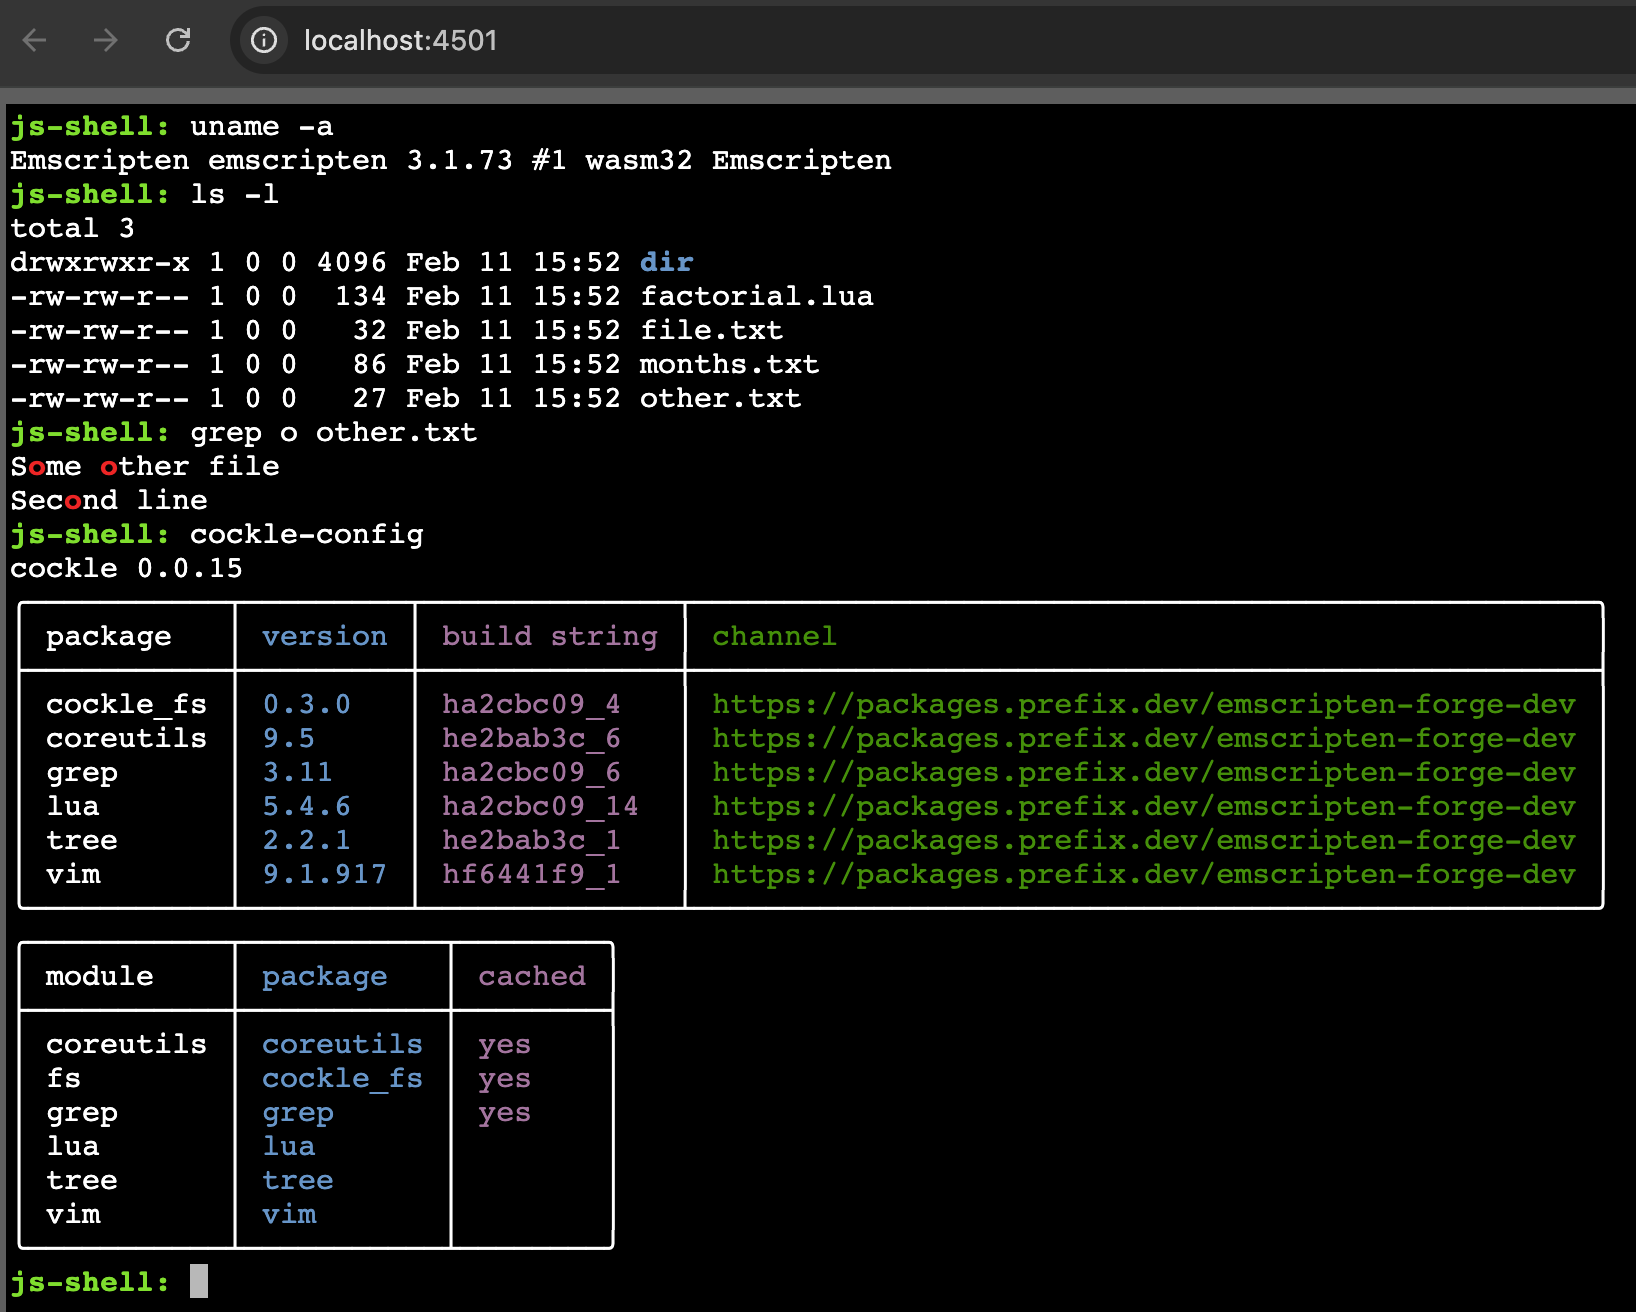
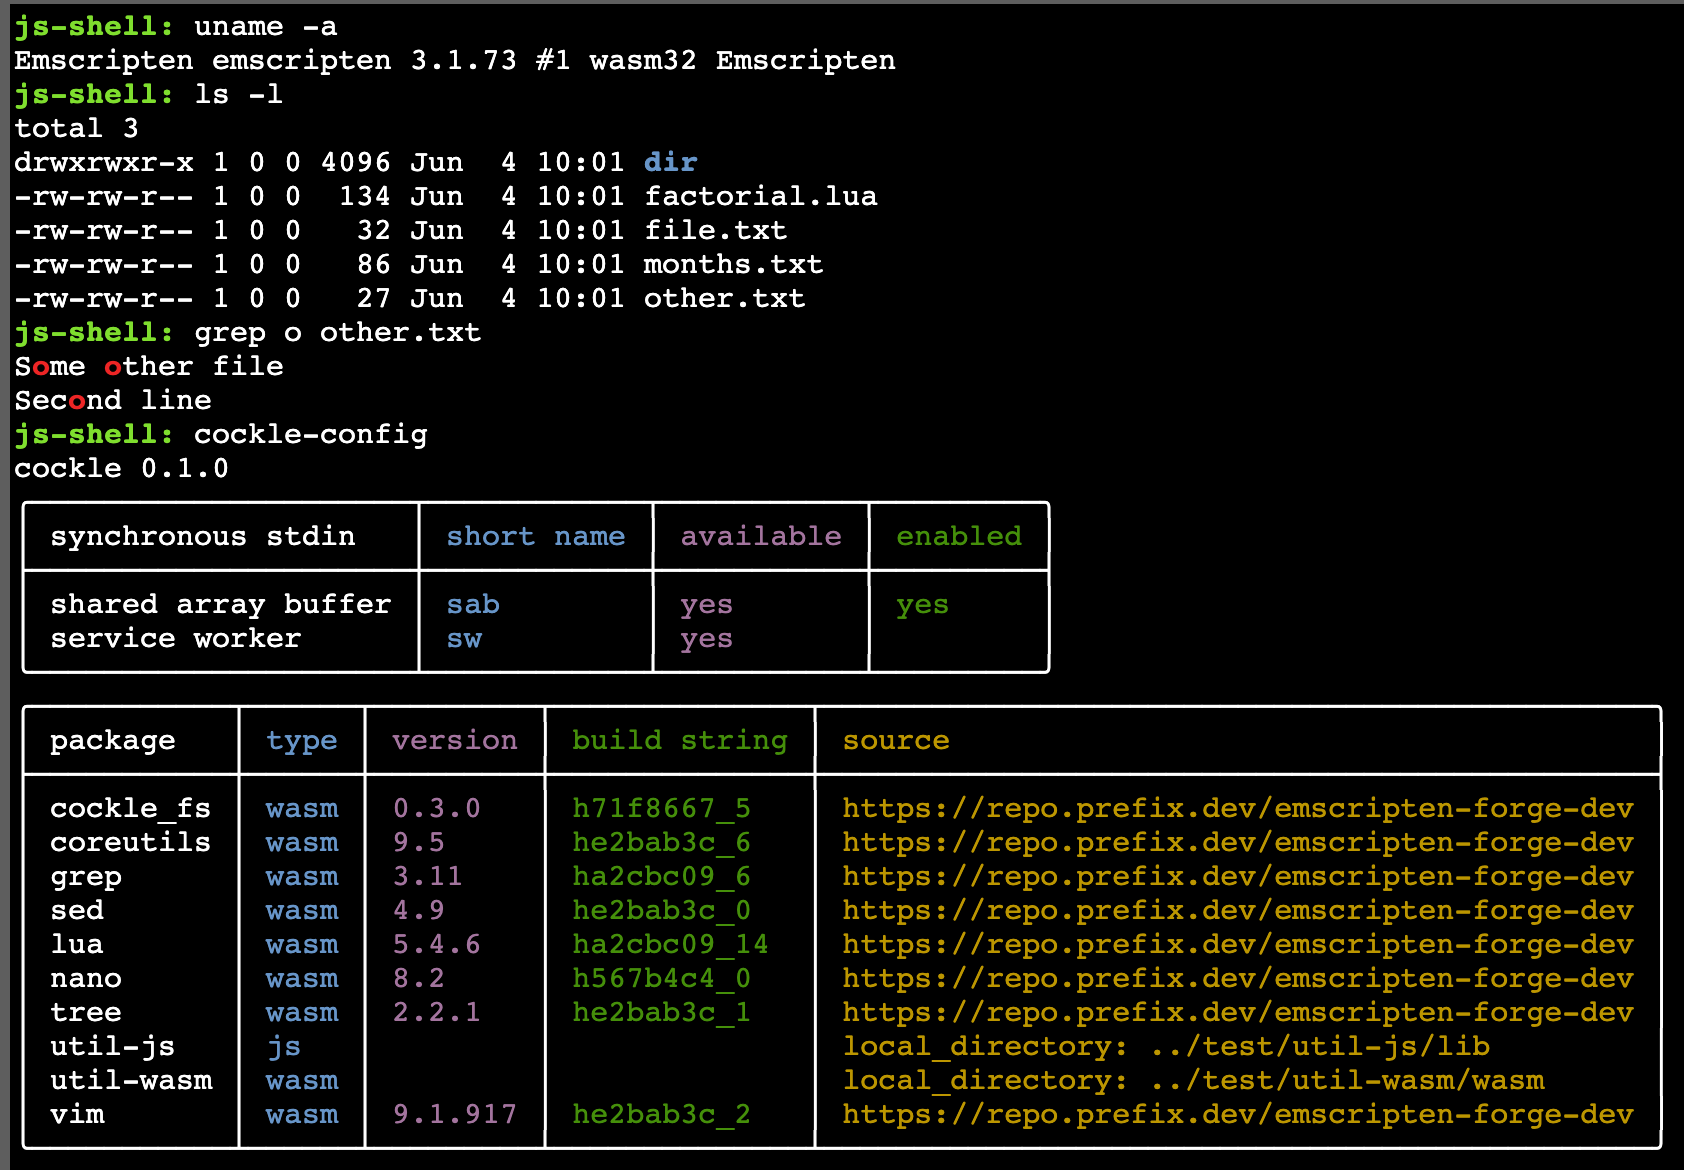
Prepare for v0.1.0 release (#184)

Changed region(s): [[0.0, 0.0, 1.0, 1.0]]

diff --git a/README.md b/README.md
@@ -55,6 +55,10 @@ then open a browser at the specified URL:
 
 <img alt="Demo" src="demo.png" width="800px">
 
+The demo is served with cross-origin headers so that is supports synchronous `stdin` via both
+SharedArrayBuffer and ServiceWorker. Use `cockle-config -s` to check the current settings, and
+`cockle-config -s sw` to switch to using the ServiceWorker.
+
 ---
 
 ## Testing
